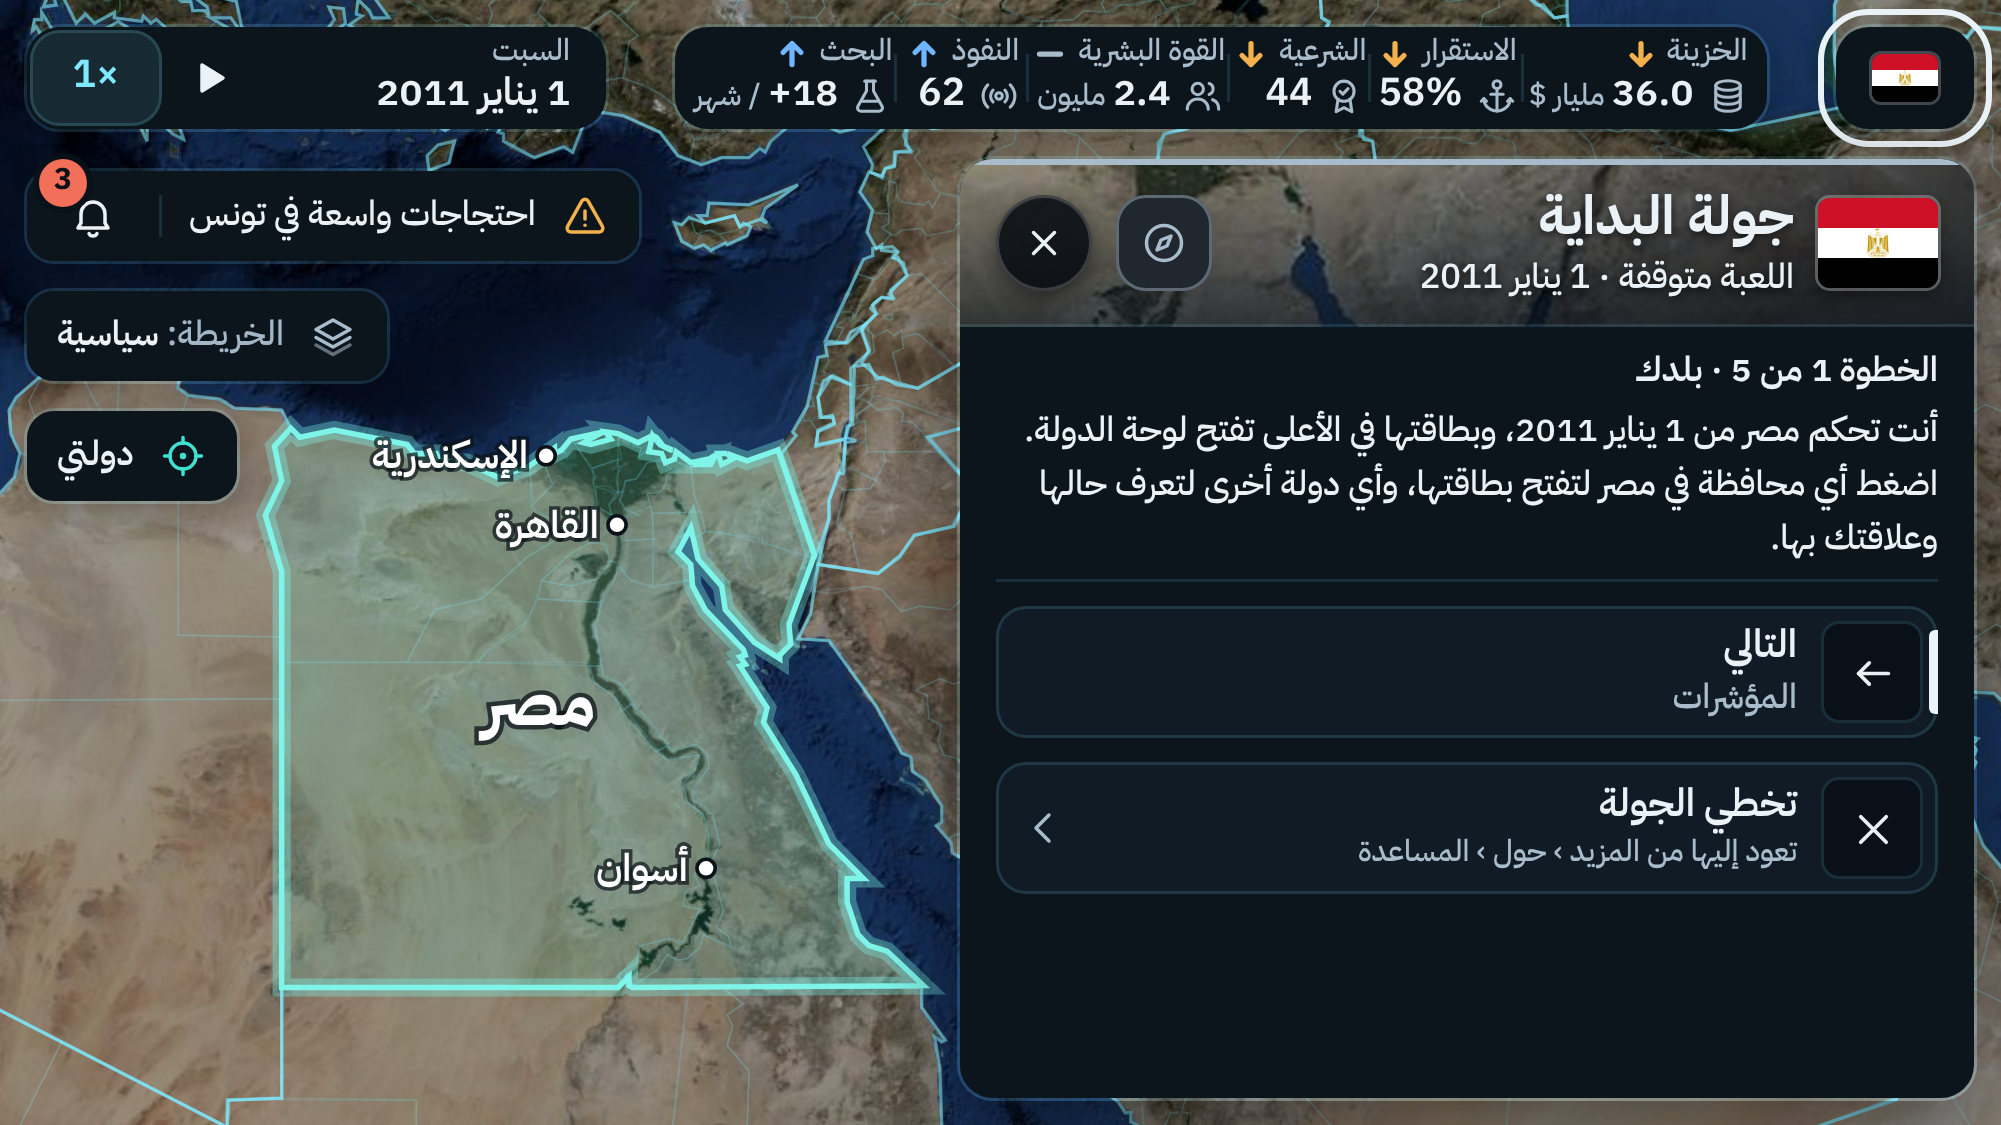
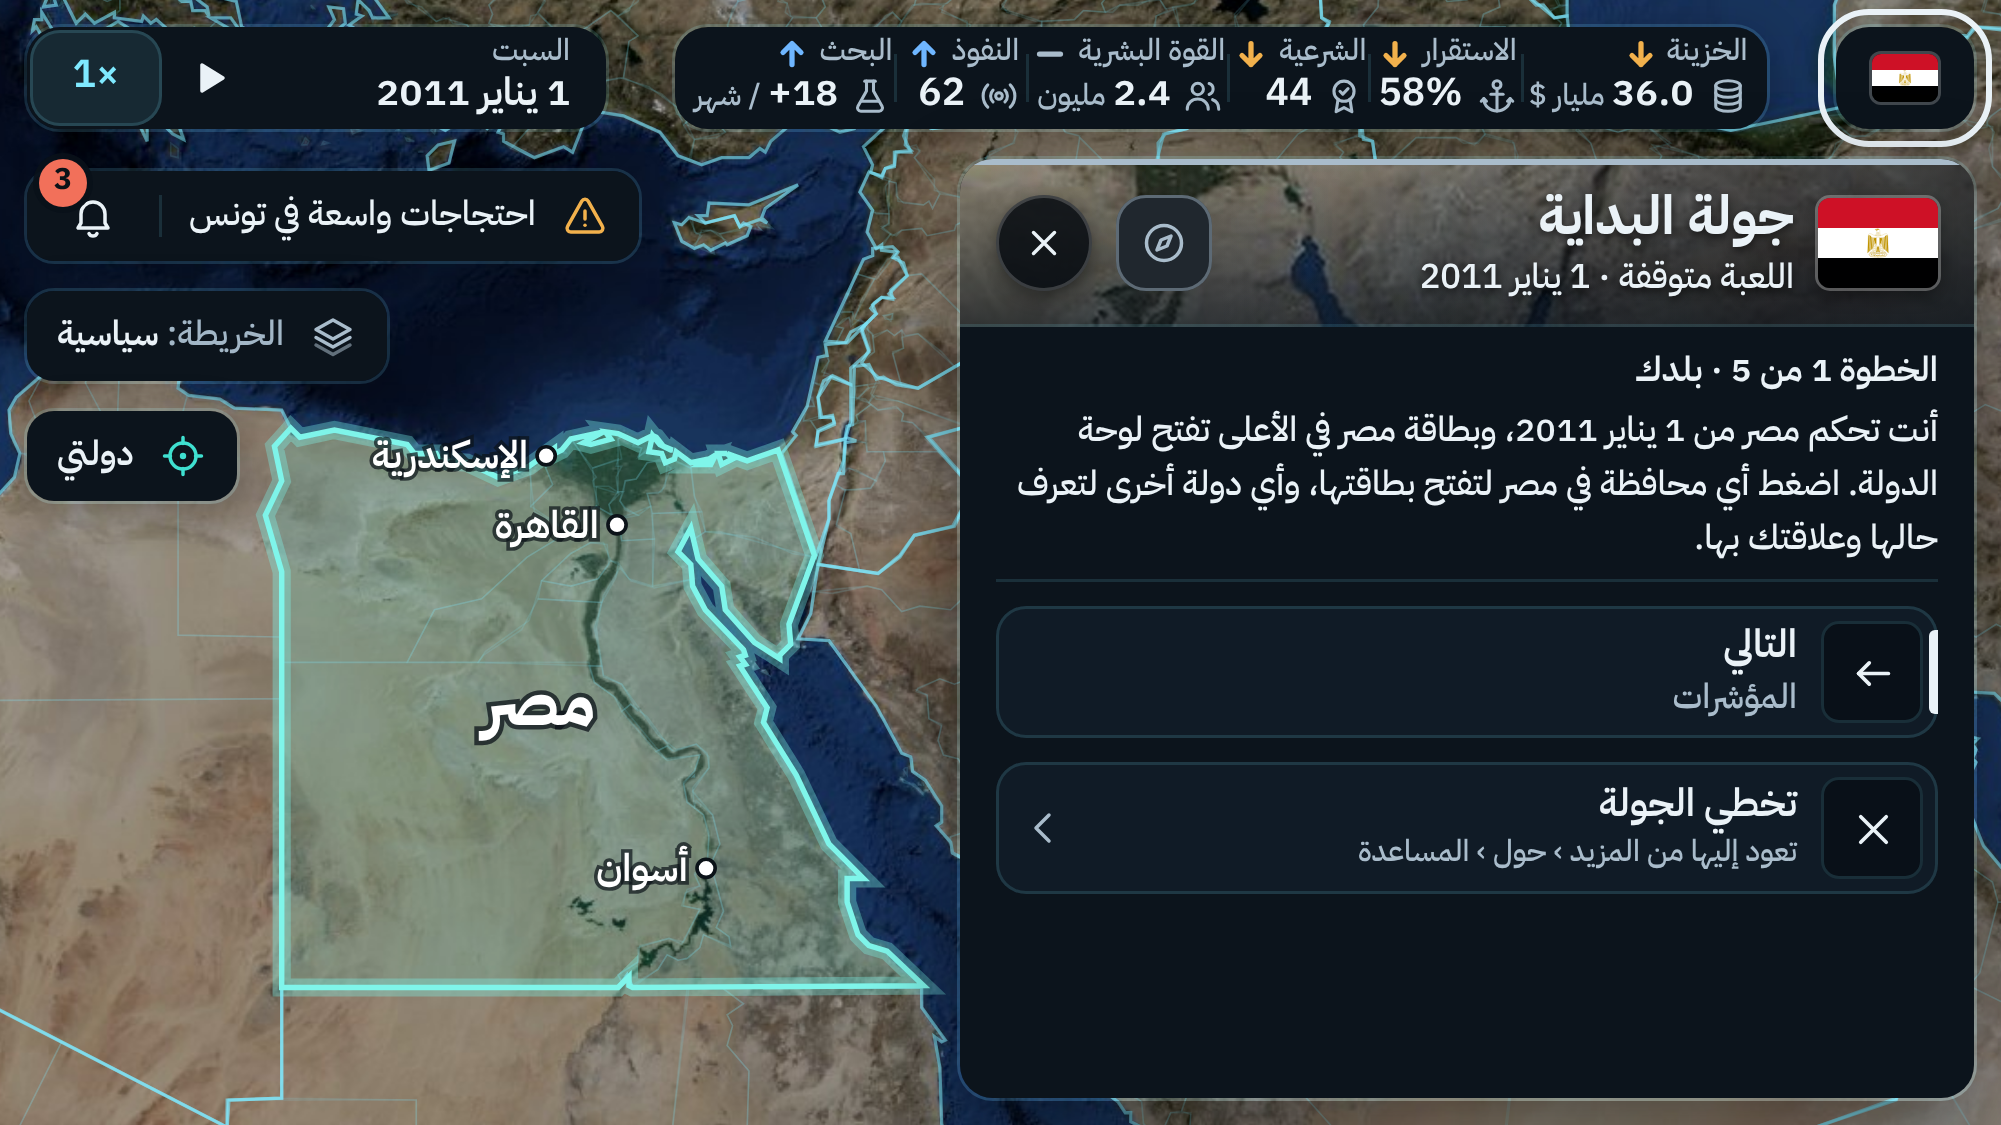
Screen 30: the checker counts every control and paragraph in a step, finds rings drawn by pseudo-elements and any white shadow layer, checks the bar's opacity and the skip's full label (7 new plants); regate in progress
Claude-Session: https://claude.ai/code/session_01MLonhqnmvkkBtefTMosBb9

Changed region(s): [[0.4958, 0.3733, 0.9915, 0.4978]]

diff --git a/design/screen30/A/_build/render.js b/design/screen30/A/_build/render.js
@@ -50,19 +50,30 @@ if (document.querySelector('[role="dialog"], [role="alertdialog"], dialog, .moda
 // the body: exactly its text section, one primary and (steps 1 to 4) the skip, in that order; the primary's white bar drawn
 { const kids = [...body.children].filter((e) => getComputedStyle(e).display !== 'none').map((e) => e.matches('.r-sec') ? 'sec' : e.matches('.r-act.r-first') ? 'primary' : e.matches('.r-link') ? 'skip' : (e.className || e.tagName));
   const want = i < 4 ? 'sec,primary,skip' : 'sec,primary'; if (kids.join(',') !== want) issues.push('the step body is not «' + want + '»: ' + kids.join(','));
-  const pf = body.querySelector('.r-first'); if (pf) { const a = getComputedStyle(pf, '::after'); if (a.content === 'none' || a.display === 'none' || a.backgroundColor !== X.TOK.t1 || (parseFloat(a.width) || 0) <= 0 || (parseFloat(a.height) || 0) <= 0) issues.push('the primary\\'s white bar is not drawn'); } }
+  // and nothing more inside: the controls are the primary and the skip; the text section holds its heading, its text and (s3) the list
+  const ctl = [...body.querySelectorAll('button, [role="button"], a, .tap, input, select')].filter((e) => e.getClientRects().length);
+  if (ctl.length !== (i < 4 ? 2 : 1)) issues.push('the step body holds ' + ctl.length + ' controls, not ' + (i < 4 ? 2 : 1));
+  const sec = body.querySelector('.r-sec'), inSec = sec ? [...sec.children].filter((e) => getComputedStyle(e).display !== 'none').map((e) => e.tagName === 'H3' ? 'h3' : e.matches('p.d-text') ? 'text' : e.matches('ul.t-secs') ? 'list' : (e.className || e.tagName)) : [];
+  if (inSec.join(',') !== (tab === 's3' ? 'h3,text,list' : 'h3,text')) issues.push('the step text section is not its heading and text: ' + inSec.join(','));
+  const pf = body.querySelector('.r-first'); if (pf) { const a = getComputedStyle(pf, '::after'); if (a.content === 'none' || a.display === 'none' || a.visibility === 'hidden' || parseFloat(a.opacity) < 0.99 || a.backgroundColor !== X.TOK.t1 || (parseFloat(a.width) || 0) <= 0 || (parseFloat(a.height) || 0) <= 0) issues.push('the primary\\'s white bar is not drawn'); } }
 // the actions: one primary; «التالي» naming the next step, or «ابدأ الحملة» opening the first decision; the skip on every step but the last
 { const prim = [...body.querySelectorAll('.r-first')]; const want = i < 4 ? ['التالي', ST[i + 1][1], 'التالي: ' + ST[i + 1][1] + '، الخطوة ' + (i + 2) + ' من 5'] : DATA.last;
   if (prim.length !== 1 || W(T(prim[0].querySelector('.r-at b'))) !== want[0] || W(T(prim[0].querySelector('.r-at > span'))) !== want[1] || prim[0].getAttribute('aria-label') !== want[2]) issues.push('the primary is not «' + want[0] + ' · ' + want[1] + '» read as «' + want[2] + '»');
-  const sk = body.querySelector('.r-link'); if ((i < 4) !== !!sk || (sk && (W(T(sk.querySelector('.r-at b'))) !== 'تخطي الجولة' || W(T(sk.querySelector('.r-at > span'))) !== DATA.help || !/المزيد، حول، المساعدة\. ثم يفتح أول قرار، /.test(sk.getAttribute('aria-label') || '')))) issues.push('the skip is missing, misplaced or does not say the tour stays in the help and the first decision follows'); }
+  const sk = body.querySelector('.r-link'); if ((i < 4) !== !!sk || (sk && (W(T(sk.querySelector('.r-at b'))) !== 'تخطي الجولة' || W(T(sk.querySelector('.r-at > span'))) !== DATA.help || sk.getAttribute('aria-label') !== 'تخطي الجولة: تعود إليها من المزيد، حول، المساعدة. ثم يفتح أول قرار، ' + DATA.decision))) issues.push('the skip is missing, misplaced or does not say the tour stays in the help and the first decision follows'); }
 // the ring: exactly the step's HUD element, and nothing else on the page ringed (an outline, a box-shadow spread or a white
 // border, the map included); a solid white 2 pt outline 3 pt outside; the element inside the side insets, the ring on
-// screen, clear of the sheet and of the map's focus; none on the sections' step
+// screen and clear of the sheet; none on the sections' step. A ring may be drawn by the element or its ::before or ::after,
+// by an outline, a white border or any box-shadow layer with a spread (any offset, blur or alpha)
 { const white = (c) => c === X.TOK.t1;
-  const ringed = (e) => { const c = getComputedStyle(e); if (!e.getClientRects().length || c.visibility === 'hidden') return false;
+  const whiteish = (col) => { const m = /rgba?\(([\d.]+), ([\d.]+), ([\d.]+)(?:, ([\d.]+))?\)/.exec(col || ''); return !!m && +m[1] > 200 && +m[2] > 200 && +m[3] > 200 && (m[4] === undefined || +m[4] > 0); };
+  const layers = (bs) => { const out = []; let depth = 0, cur = ''; for (const ch of bs) { if (ch === '(') depth++; if (ch === ')') depth--; if (ch === ',' && !depth) { out.push(cur); cur = ''; } else cur += ch; } if (cur.trim()) out.push(cur); return out; };
+  const ringStyle = (c) => { if (!c || c.display === 'none' || c.visibility === 'hidden') return false;
     if (c.outlineStyle !== 'none' && parseFloat(c.outlineWidth) > 0) return true;
-    if (c.boxShadow !== 'none' && /rgb\\(234, 242, 247\\)[^,]*0px 0px 0px [1-9]|0px 0px 0px [1-9][0-9.]*px[^,]*rgb\\(234, 242, 247\\)/.test(c.boxShadow)) return true;
-    return ['Top', 'Right', 'Bottom', 'Left'].some((sd) => parseFloat(c['border' + sd + 'Width']) >= 1 && c['border' + sd + 'Style'] !== 'none' && white(c['border' + sd + 'Color'])); };
+    if (c.boxShadow && c.boxShadow !== 'none' && layers(c.boxShadow).some((l) => { const col = (/rgba?\([^)]*\)/.exec(l) || [''])[0], px = l.replace(col, '').match(/-?[\d.]+px/g) || []; return whiteish(col) && px.length >= 4 && parseFloat(px[3]) > 0; })) return true;
+    return ['Top', 'Right', 'Bottom', 'Left'].some((sd) => parseFloat(c['border' + sd + 'Width']) >= 1 && c['border' + sd + 'Style'] !== 'none' && whiteish(c['border' + sd + 'Color'])); };
+  const ringed = (e) => { if (!e.getClientRects().length || getComputedStyle(e).visibility === 'hidden') return false;
+    if (ringStyle(getComputedStyle(e))) return true;
+    return ['::before', '::after'].some((ps) => { const c = getComputedStyle(e, ps); return c.content !== 'none' && c.content !== 'normal' && ringStyle(c); }); };
   const rings = [...document.body.querySelectorAll('*')].filter((e) => !e.closest('.sheet') && ringed(e));
   const want = ST[i][2], tgt = want && document.querySelector('.hud ' + want);
   if (!want) { if (rings.length) issues.push('a ring on the sections\\' step: ' + rings.map((e) => e.className || e.tagName).join(', ')); }
@@ -131,6 +142,12 @@ require(path.join(OUT, '../../shared/check/panelcheck.js'))({
     ['primary bar hidden', d, '&tab=s1', '.r-first::after { content: none !important; }', /the primary's white bar is not drawn/],
     ['close without the help', d, '&tab=s1', '', /a11y: the close does not say it skips the tour, stays in the help/, () => { document.querySelector('.r-x').setAttribute('aria-label', 'تخطي الجولة، العودة إلى الخريطة واللعبة متوقفة'); }],
     ['skip without the decision', d, '&tab=s1', '', /the skip is missing, misplaced or does not say the tour stays in the help/, () => { document.querySelector('.r-body[data-tab="s1"] .r-link').setAttribute('aria-label', 'تخطي الجولة: تعود إليها من المزيد، حول، المساعدة. يغلق الجولة واللعبة متوقفة'); }],
+    ['skip naming another decision', d, '&tab=s1', '', /the skip is missing, misplaced or does not say the tour stays in the help/, () => { document.querySelector('.r-body[data-tab="s1"] .r-link').setAttribute('aria-label', 'تخطي الجولة: تعود إليها من المزيد، حول، المساعدة. ثم يفتح أول قرار، انتخابات في السودان'); }],
+    ['control inside the text', d, '&tab=s1', '', /the step body holds 3 controls|the step text section is not/, () => { const b = document.createElement('button'); b.className = 'r-act tap'; b.textContent = 'زر'; document.querySelector('.r-body[data-tab="s1"] .r-sec').appendChild(b); }],
+    ['second paragraph', d, '&tab=s1', '', /the step text section is not its heading and text/, () => { const p = document.createElement('p'); p.className = 'd-text'; p.textContent = 'نص إضافي'; document.querySelector('.r-body[data-tab="s1"] .r-sec').appendChild(p); }],
+    ['ring by a pseudo-element', d, '&tab=s3', '.hud .date { position: relative; } .hud .date::after { content: ""; position: absolute; inset: -5px; border: 2px solid #EAF2F7; }', /a ring on the sections' step/],
+    ['ring by an offset shadow', d, '&tab=s2', '.hud .nation { box-shadow: 0 1px 0 3px rgba(234, 242, 247, .9) !important; }', /the ring is not on the step's element \.stats alone/],
+    ['primary bar faded', d, '&tab=s1', '.r-first::after { opacity: 0 !important; }', /the primary's white bar is not drawn/],
     ['skip path without «حول»', d, '&tab=s2', '', /the skip is missing, misplaced or does not say the tour stays in the help/, () => { document.querySelector('.r-body[data-tab="s2"] .r-link .r-at > span').textContent = 'تعود إليها من المزيد › المساعدة'; }],
     ['HUD date changed', d, '&tab=s1', '', /the header's date is not the HUD's/, () => { document.querySelector('.hud .date .dmy').textContent = '14 يناير 2011'; }],
     ['HUD country changed', d, '&tab=s1', '', /step 1's country and date are not the HUD's/, () => { document.querySelector('.hud .nation .nm').textContent = 'تونس'; }],

diff --git a/design/screen30/A/index.html b/design/screen30/A/index.html
@@ -810,20 +810,20 @@
           <div class="r-sub">اللعبة متوقفة<span class="r-dot"> · </span><span class="ltr">1</span> يناير <span class="ltr">2011</span></div>
         </div>
         <span class="s-emb" aria-hidden="true"><svg class="i"><use href="#i-tour"/></svg></span>
-        <button class="r-x tap" aria-label="تخطي الجولة، تعود إليها من المزيد، حول، المساعدة. العودة إلى الخريطة واللعبة متوقفة"><svg class="i"><use href="#i-close"/></svg></button>
+        <button class="r-x tap" aria-label="تخطي الجولة، تعود إليها من المزيد، حول، المساعدة. ثم يفتح أول قرار، احتجاجات في تونس"><svg class="i"><use href="#i-close"/></svg></button>
       </header>
 
 
       <div class="r-body" data-tab="s1">
         <section class="r-sec">
           <h3>الخطوة <span class="ltr">1</span> من <span class="ltr">5</span> · بلدك</h3>
-          <p class="d-text">أنت تحكم مصر من <span class="ltr">1</span> يناير <span class="ltr">2011</span>، وبطاقتها في الأعلى تفتح لوحة الدولة. اضغط أي محافظة في مصر لتفتح بطاقتها، وأي دولة أخرى لتعرف حالها وعلاقتك بها.</p>
+          <p class="d-text">أنت تحكم مصر من <span class="ltr">1</span> يناير <span class="ltr">2011</span>، وبطاقة مصر في الأعلى تفتح لوحة الدولة. اضغط أي محافظة في مصر لتفتح بطاقتها، وأي دولة أخرى لتعرف حالها وعلاقتك بها.</p>
         </section>
         <button class="r-act tap r-first" aria-label="التالي: المؤشرات، الخطوة 2 من 5">
           <span class="r-tile"><svg class="i"><use href="#i-next"/></svg></span>
           <span class="r-at"><b>التالي</b><span>المؤشرات</span></span>
         </button>
-        <div class="r-link tap" role="button" tabindex="0" aria-label="تخطي الجولة: تعود إليها من المزيد، حول، المساعدة. يغلق الجولة واللعبة متوقفة">
+        <div class="r-link tap" role="button" tabindex="0" aria-label="تخطي الجولة: تعود إليها من المزيد، حول، المساعدة. ثم يفتح أول قرار، احتجاجات في تونس">
           <span class="r-tile"><svg class="i"><use href="#i-skip"/></svg></span>
           <span class="r-at"><b>تخطي الجولة</b><span>تعود إليها من المزيد › حول › المساعدة</span></span>
           <svg class="i r-chev"><use href="#i-chev"/></svg>
@@ -839,7 +839,7 @@
           <span class="r-tile"><svg class="i"><use href="#i-next"/></svg></span>
           <span class="r-at"><b>التالي</b><span>الأقسام</span></span>
         </button>
-        <div class="r-link tap" role="button" tabindex="0" aria-label="تخطي الجولة: تعود إليها من المزيد، حول، المساعدة. يغلق الجولة واللعبة متوقفة">
+        <div class="r-link tap" role="button" tabindex="0" aria-label="تخطي الجولة: تعود إليها من المزيد، حول، المساعدة. ثم يفتح أول قرار، احتجاجات في تونس">
           <span class="r-tile"><svg class="i"><use href="#i-skip"/></svg></span>
           <span class="r-at"><b>تخطي الجولة</b><span>تعود إليها من المزيد › حول › المساعدة</span></span>
           <svg class="i r-chev"><use href="#i-chev"/></svg>
@@ -865,7 +865,7 @@
           <span class="r-tile"><svg class="i"><use href="#i-next"/></svg></span>
           <span class="r-at"><b>التالي</b><span>الوقت</span></span>
         </button>
-        <div class="r-link tap" role="button" tabindex="0" aria-label="تخطي الجولة: تعود إليها من المزيد، حول، المساعدة. يغلق الجولة واللعبة متوقفة">
+        <div class="r-link tap" role="button" tabindex="0" aria-label="تخطي الجولة: تعود إليها من المزيد، حول، المساعدة. ثم يفتح أول قرار، احتجاجات في تونس">
           <span class="r-tile"><svg class="i"><use href="#i-skip"/></svg></span>
           <span class="r-at"><b>تخطي الجولة</b><span>تعود إليها من المزيد › حول › المساعدة</span></span>
           <svg class="i r-chev"><use href="#i-chev"/></svg>
@@ -875,13 +875,13 @@
       <div class="r-body" data-tab="s4">
         <section class="r-sec">
           <h3>الخطوة <span class="ltr">4</span> من <span class="ltr">5</span> · الوقت</h3>
-          <p class="d-text">يمضي الوقت يومًا بعد يوم. اضغط <span class="ltr">1×</span> لتختار السرعة حتى «أقصى»، وزر التشغيل لتوقفه متى شئت؛ ما&nbsp;تأمر&nbsp;به والوقت متوقف يُنفَّذ عند الاستئناف.</p>
+          <p class="d-text">يمضي الوقت يومًا بعد يوم. اضغط <span class="ltr">1×</span> لتختار السرعة حتى «أقصى»، وزر&nbsp;التشغيل&nbsp;والإيقاف لتوقفه متى شئت؛ ما&nbsp;تأمر&nbsp;به والوقت متوقف يُنفَّذ عند الاستئناف.</p>
         </section>
         <button class="r-act tap r-first" aria-label="التالي: الأحداث، الخطوة 5 من 5">
           <span class="r-tile"><svg class="i"><use href="#i-next"/></svg></span>
           <span class="r-at"><b>التالي</b><span>الأحداث</span></span>
         </button>
-        <div class="r-link tap" role="button" tabindex="0" aria-label="تخطي الجولة: تعود إليها من المزيد، حول، المساعدة. يغلق الجولة واللعبة متوقفة">
+        <div class="r-link tap" role="button" tabindex="0" aria-label="تخطي الجولة: تعود إليها من المزيد، حول، المساعدة. ثم يفتح أول قرار، احتجاجات في تونس">
           <span class="r-tile"><svg class="i"><use href="#i-skip"/></svg></span>
           <span class="r-at"><b>تخطي الجولة</b><span>تعود إليها من المزيد › حول › المساعدة</span></span>
           <svg class="i r-chev"><use href="#i-chev"/></svg>
@@ -891,10 +891,10 @@
       <div class="r-body" data-tab="s5">
         <section class="r-sec">
           <h3>الخطوة <span class="ltr">5</span> من <span class="ltr">5</span> · الأحداث</h3>
-          <p class="d-text">الأخبار تصلك هنا، والجرس يجمع كل الإشعارات. القرارات العاجلة توقف الوقت حتى تختار أو تؤجلها، وأول&nbsp;قرار ينتظرك: احتجاجات واسعة&nbsp;في&nbsp;تونس.</p>
+          <p class="d-text">الأخبار تصلك هنا، والجرس يجمع كل الإشعارات. القرارات&nbsp;العاجلة توقف الوقت حتى تختار أو تؤجلها، وهذا الخبر أول&nbsp;قرار ينتظرك.</p>
         </section>
         <button class="r-act tap r-first" aria-label="ابدأ الحملة: يفتح أول قرار، احتجاجات في تونس">
-          <span class="r-tile"><svg class="i"><use href="#i-play2"/></svg></span>
+          <span class="r-tile"><svg class="i"><use href="#i-next"/></svg></span>
           <span class="r-at"><b>ابدأ الحملة</b><span>يفتح أول قرار: احتجاجات في تونس</span></span>
         </button>
       </div>
